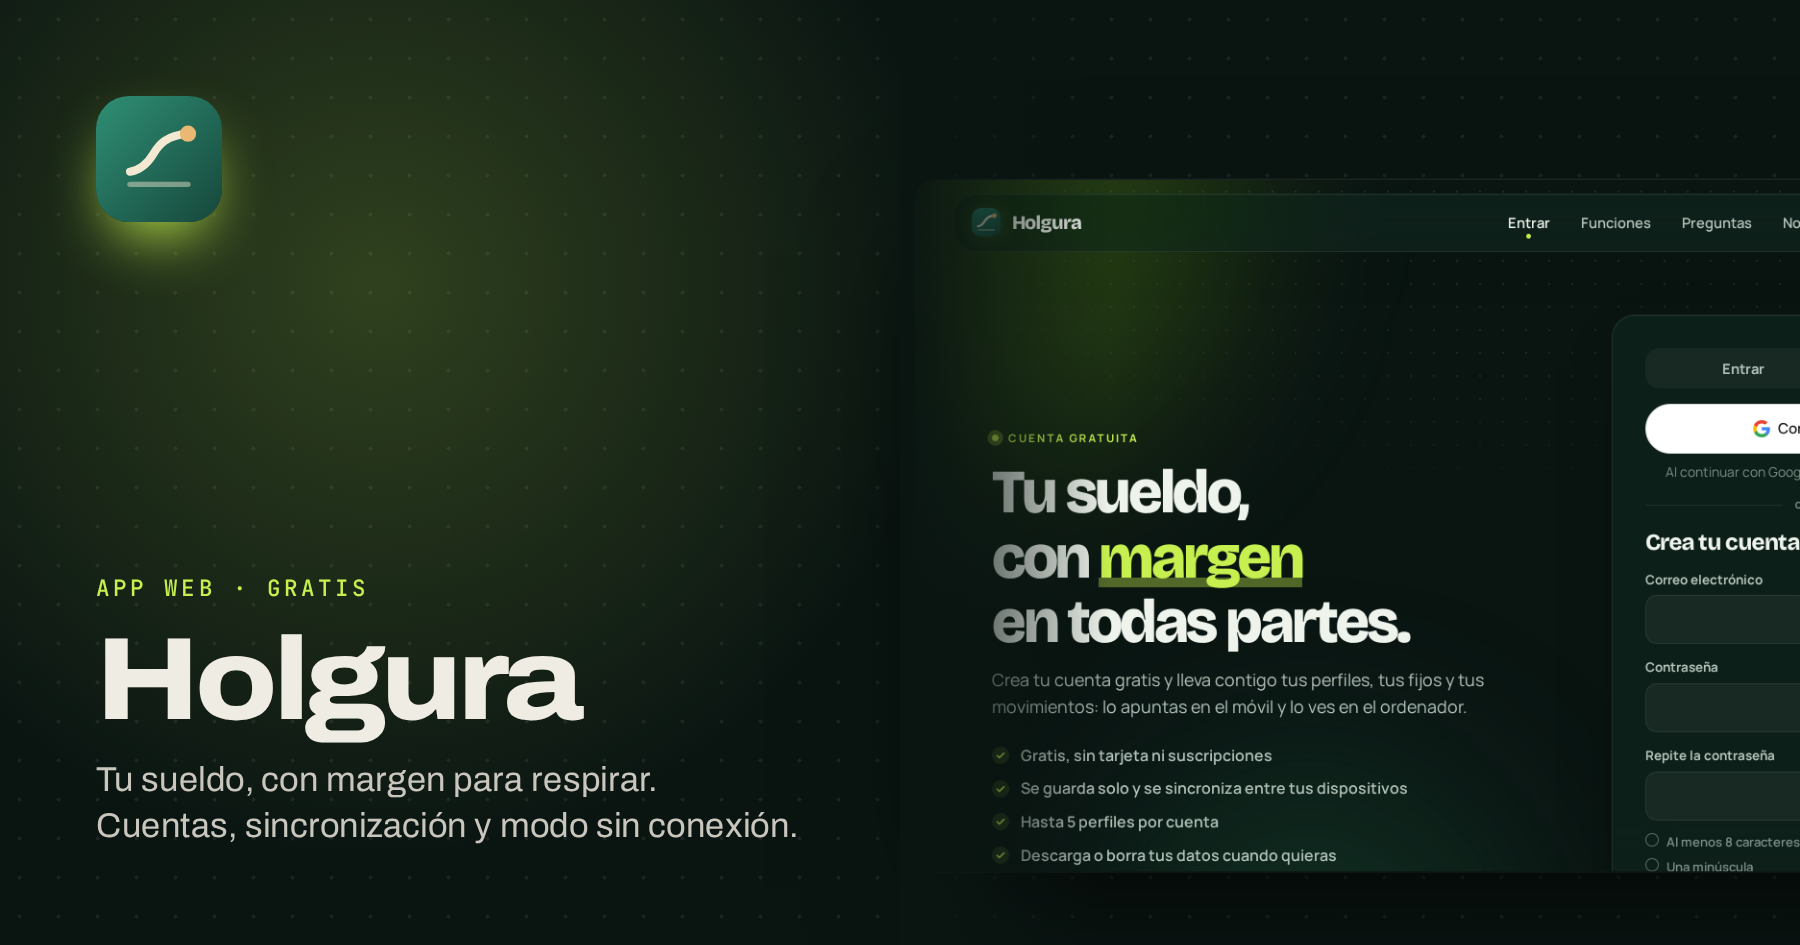
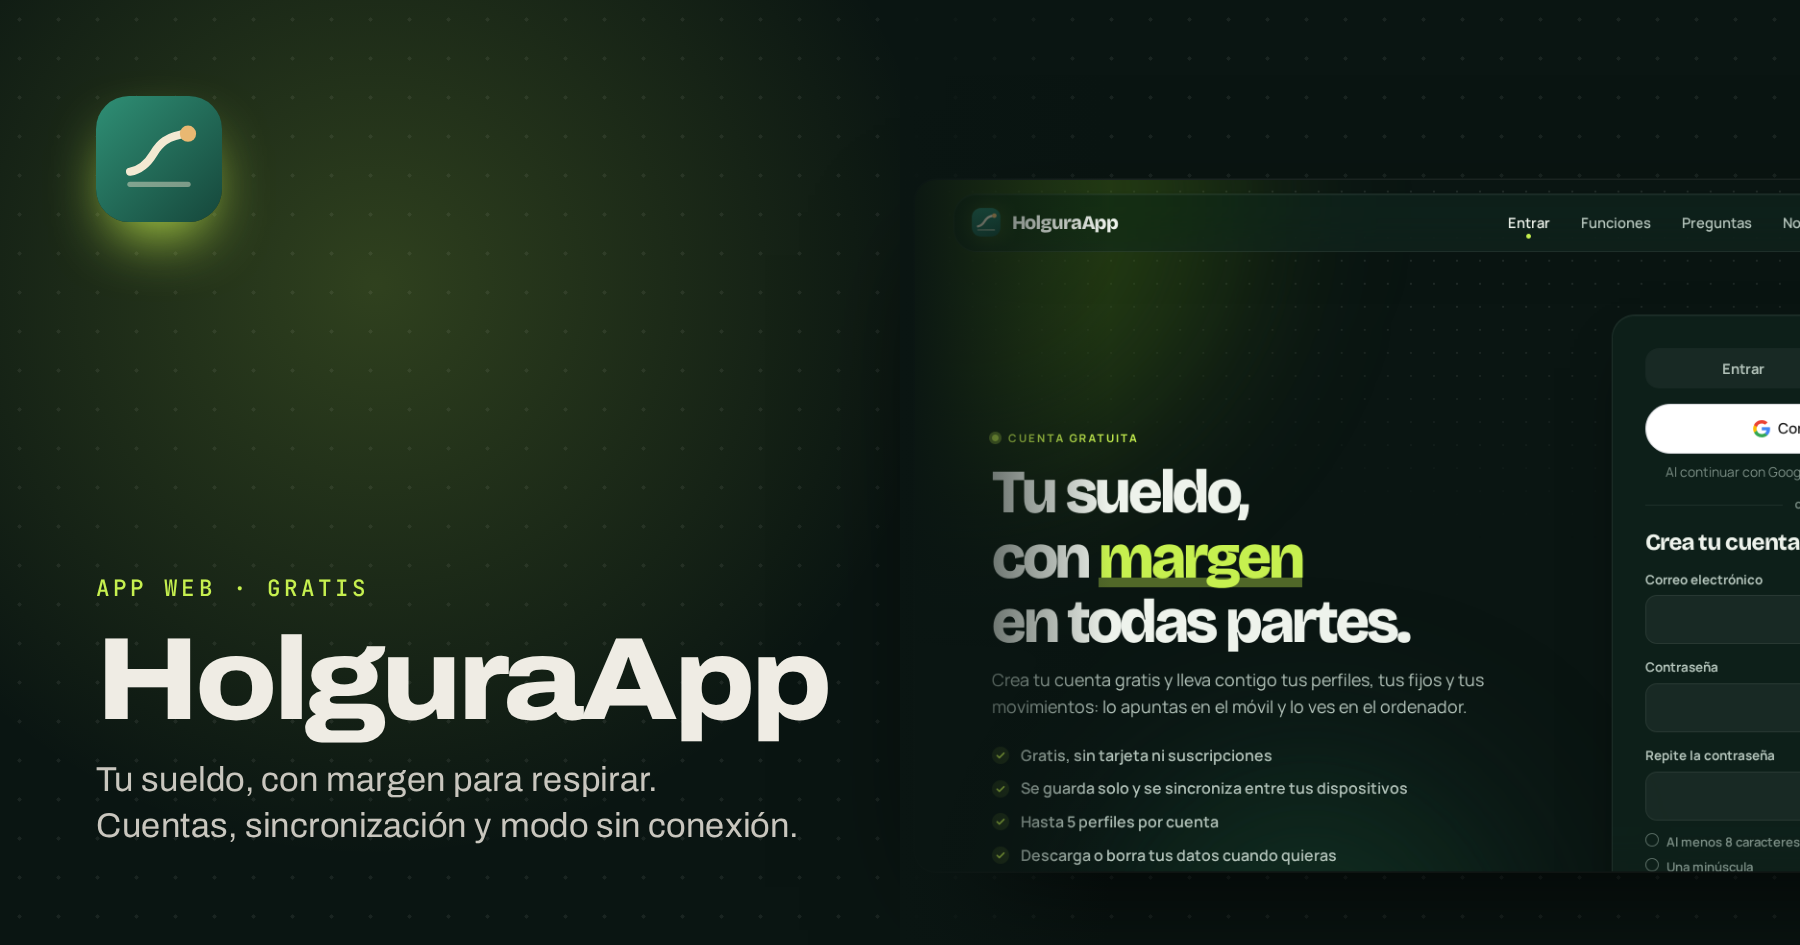
Holgura pasa a llamarse HolguraApp (holguraapp.com): tarjeta, enlaces y terminal

Changed region(s): [[0.3111, 0.6751, 0.4667, 0.7979], [0.5911, 0.2148, 0.6222, 0.2455]]

diff --git a/README.md b/README.md
@@ -18,11 +18,11 @@ Lo que aprendo en clase lo pruebo en mi propio servidor: ahí viven mis webs y m
 
 <table>
   <tr>
-    <td width="50%"><a href="https://holgura.alcasite.com"><img src="assets/holgura.png" alt="Holgura: app web de finanzas personales"></a></td>
+    <td width="50%"><a href="https://holguraapp.com"><img src="assets/holgura.png" alt="HolguraApp: app web de finanzas personales"></a></td>
     <td width="50%"><a href="https://lazo.alcasite.com"><img src="assets/lazo.png" alt="Lazo: app de escritorio para Windows y Linux"></a></td>
   </tr>
   <tr>
-    <td><b><a href="https://holgura.alcasite.com">Holgura</a></b> · app web de finanzas personales con cuentas (PocketBase), inicio con Google y modo sin conexión.</td>
+    <td><b><a href="https://holguraapp.com">HolguraApp</a></b> · app web de finanzas personales con cuentas (PocketBase), inicio con Google y modo sin conexión.</td>
     <td><b><a href="https://lazo.alcasite.com">Lazo</a></b> · Bluetooth, impresoras, redes y pantallas en una sola app de escritorio (Electron, PowerShell y Linux), con sistema de incidencias propio.</td>
   </tr>
   <tr>
